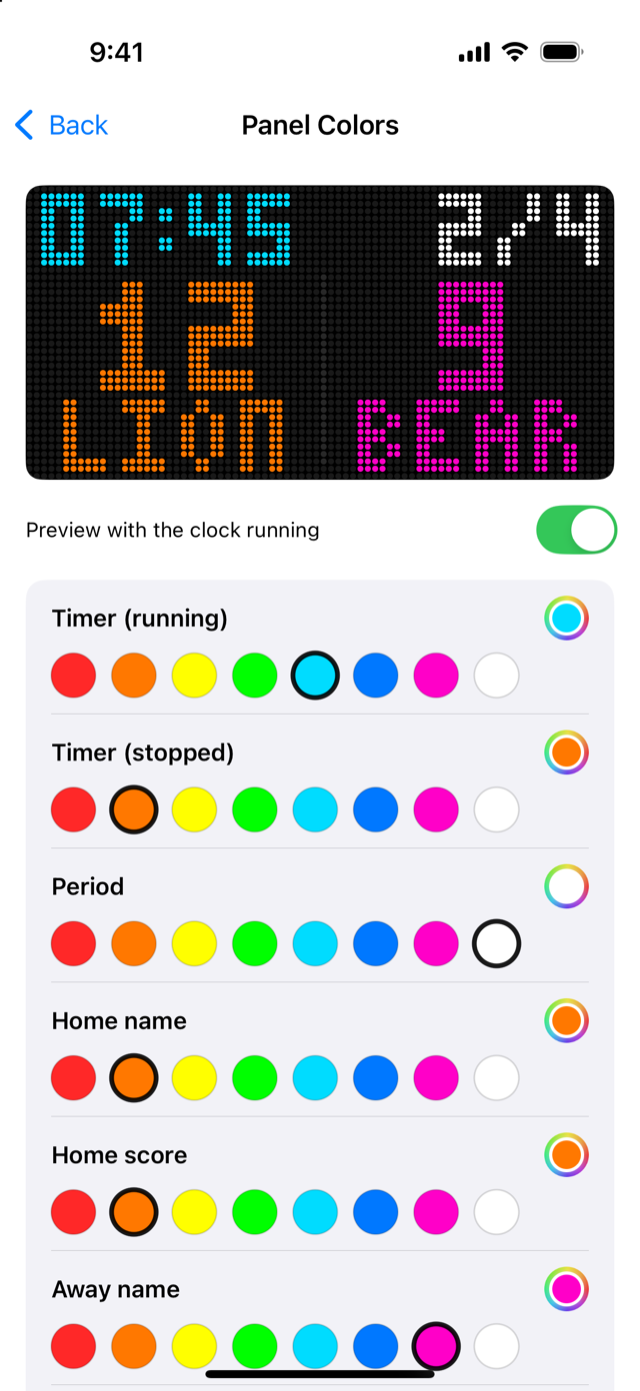
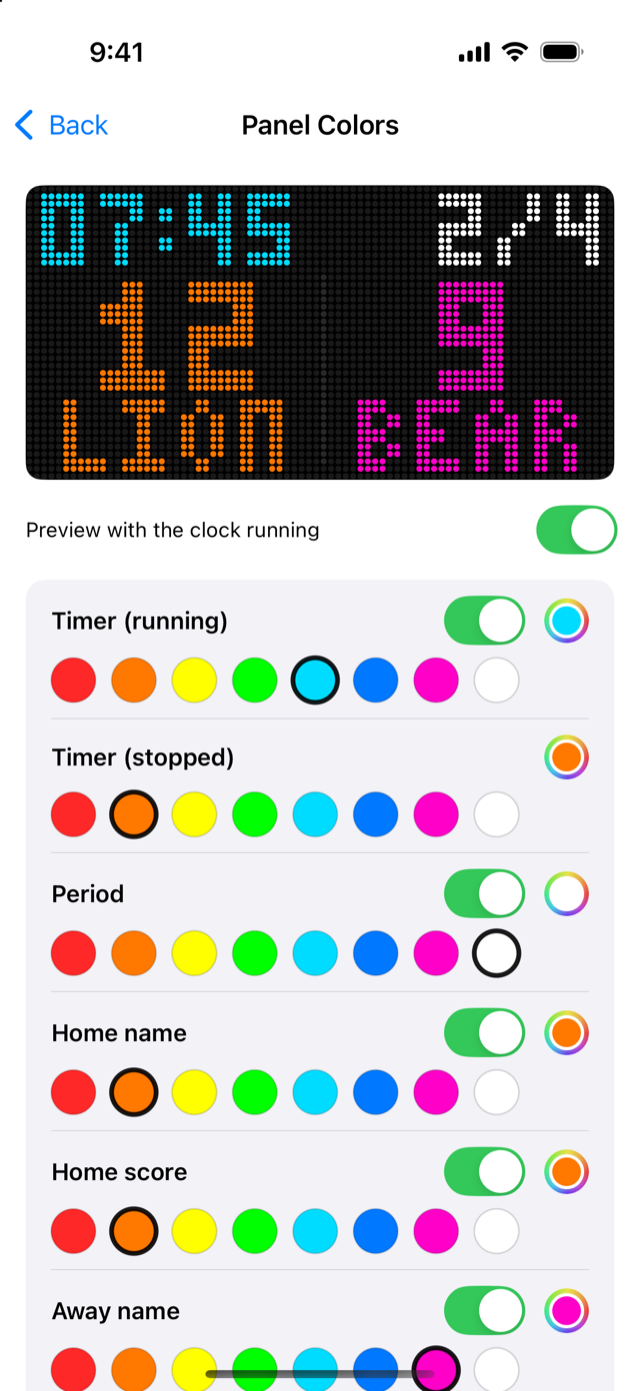
Hide or show each panel element, with a switch on the Panel Colors page
- A switch on each row hides that element on the panel: timer (one switch for
  running and stopped), period, team names and scores. An alert switched off does
  not play. The color preview and the simulated board hide elements immediately.
- Visibility is saved on the phone and sent to the board (CMD_SET_VISIBILITY, a
  2-byte bitmask) on change and on every connection. Protocol version is now 4.
- Tutorial, docs, README and Spanish translations updated; the colors screenshot
  now shows the switches.

diff --git a/BLEScoreboard/PanelColors.swift b/BLEScoreboard/PanelColors.swift
@@ -41,6 +41,10 @@ enum PanelElement: String, CaseIterable, Identifiable {
         }
     }
     
+    /// The timer has one switch for both of its colors, kept on the running row.
+    var visibilityKey: PanelElement { self == .timerStopped ? .timerRunning : self }
+    var hasVisibilitySwitch: Bool { self != .timerStopped }
+    
     /// The colors the panel used before colors were configurable.
     var defaultColor: RGB {
         switch self {
@@ -75,6 +79,32 @@ enum PanelColorStore {
     static func save(_ colors: [PanelElement: RGB]) {
         let raw = Dictionary(uniqueKeysWithValues: colors.map { ($0.key.rawValue, $0.value) })
         if let data = try? JSONEncoder().encode(raw) { UserDefaults.standard.set(data, forKey: key) }
+    }
+}
+
+/// Which elements are shown on the panel. Everything is shown by default.
+enum PanelVisibilityStore {
+    private static let key = "panelVisibility"
+    
+    static func load() -> [PanelElement: Bool] {
+        var visible = Dictionary(uniqueKeysWithValues: PanelElement.allCases.map { ($0, true) })
+        if let data = UserDefaults.standard.data(forKey: key),
+           let saved = try? JSONDecoder().decode([String: Bool].self, from: data) {
+            for element in PanelElement.allCases { if let v = saved[element.rawValue] { visible[element] = v } }
+        }
+        return visible
+    }
+    
+    static func save(_ visible: [PanelElement: Bool]) {
+        let raw = Dictionary(uniqueKeysWithValues: visible.map { ($0.key.rawValue, $0.value) })
+        if let data = try? JSONEncoder().encode(raw) { UserDefaults.standard.set(data, forKey: key) }
+    }
+    
+    /// Wire format: bit i set means PanelElement i is shown (the timer's stopped bit follows its running bit).
+    static func mask(_ visible: [PanelElement: Bool]) -> UInt16 {
+        var mask: UInt16 = 0
+        for (index, element) in PanelElement.allCases.enumerated() where visible[element.visibilityKey] ?? true { mask |= 1 << UInt16(index) }
+        return mask
     }
 }
 
@@ -156,17 +186,18 @@ struct PanelFrame {
     }
     
     /// The scoreboard with sample data: timer top left, period top right, scores in the middle, names at the bottom.
-    static func sample(colors: [PanelElement: RGB], clockRunning: Bool) -> PanelFrame {
+    static func sample(colors: [PanelElement: RGB], clockRunning: Bool, visible: [PanelElement: Bool] = [:]) -> PanelFrame {
         func c(_ e: PanelElement) -> RGB { colors[e] ?? e.defaultColor }
+        func shown(_ e: PanelElement) -> Bool { visible[e.visibilityKey] ?? true }
         var f = PanelFrame()
-        f.text("07:45", x: 2, y: 1, scale: 2, color: c(clockRunning ? .timerRunning : .timerStopped))
+        if shown(.timerRunning) { f.text("07:45", x: 2, y: 1, scale: 2, color: c(clockRunning ? .timerRunning : .timerStopped)) }
         let period = "2/4"
-        f.text(period, x: 78 - LEDFont.units(period) * 2, y: 1, scale: 2, color: c(.period))
+        if shown(.period) { f.text(period, x: 78 - LEDFont.units(period) * 2, y: 1, scale: 2, color: c(.period)) }
         for j in 0..<26 { f.set(40, 12 + j, RGB(40, 40, 40)) }
-        for (text, center, element) in [("12", 20, PanelElement.homeScore), ("9", 60, .awayScore)] {
+        for (text, center, element) in [("12", 20, PanelElement.homeScore), ("9", 60, .awayScore)] where shown(element) {
             f.text(text, x: center - LEDFont.units(text) * 3 / 2, y: 13, scale: 3, color: c(element))
         }
-        for (text, slotX, element) in [("LION", 2, PanelElement.homeName), ("BEAR", 42, .awayName)] {
+        for (text, slotX, element) in [("LION", 2, PanelElement.homeName), ("BEAR", 42, .awayName)] where shown(element) {
             f.text(text, x: slotX + (36 - LEDFont.units(text) * 2) / 2, y: 29, scale: 2, color: c(element), clipX: slotX..<(slotX + 36))
         }
         return f
@@ -197,18 +228,20 @@ extension PanelFrame {
     
     /// The scoreboard with the real match state: the same layout the firmware draws.
     static func live(homeName: String, awayName: String, homeScore: Int, awayScore: Int, period: Int, totalPeriods: Int,
-                     minutes: Int, seconds: Int, running: Bool, colors: [PanelElement: RGB], time: TimeInterval) -> PanelFrame {
+                     minutes: Int, seconds: Int, running: Bool, colors: [PanelElement: RGB], visible: [PanelElement: Bool] = [:],
+                     time: TimeInterval) -> PanelFrame {
         func c(_ e: PanelElement) -> RGB { colors[e] ?? e.defaultColor }
+        func shown(_ e: PanelElement) -> Bool { visible[e.visibilityKey] ?? true }
         var f = PanelFrame()
-        f.text(String(format: "%02d:%02d", minutes, seconds), x: 2, y: 1, scale: 2, color: c(running ? .timerRunning : .timerStopped))
+        if shown(.timerRunning) { f.text(String(format: "%02d:%02d", minutes, seconds), x: 2, y: 1, scale: 2, color: c(running ? .timerRunning : .timerStopped)) }
         let periodText = "\(period)/\(totalPeriods)"
-        f.text(periodText, x: 78 - LEDFont.units(periodText) * 2, y: 1, scale: 2, color: c(.period))
+        if shown(.period) { f.text(periodText, x: 78 - LEDFont.units(periodText) * 2, y: 1, scale: 2, color: c(.period)) }
         for j in 0..<26 { f.set(40, 12 + j, RGB(40, 40, 40)) }
-        for (value, center, element) in [(homeScore, 20, PanelElement.homeScore), (awayScore, 60, .awayScore)] {
+        for (value, center, element) in [(homeScore, 20, PanelElement.homeScore), (awayScore, 60, .awayScore)] where shown(element) {
             let text = String(value)
             f.text(text, x: center - LEDFont.units(text) * 3 / 2, y: 13, scale: 3, color: c(element))
         }
-        for (name, slotX, element) in [(homeName, 2, PanelElement.homeName), (awayName, 42, .awayName)] {
+        for (name, slotX, element) in [(homeName, 2, PanelElement.homeName), (awayName, 42, .awayName)] where shown(element) {
             let units = LEDFont.units(name), width = units * 2, clip = slotX..<(slotX + 36)
             if width <= 36 {
                 f.text(name, x: slotX + (36 - width) / 2, y: 29, scale: 2, color: c(element), clipX: clip)
@@ -248,6 +281,7 @@ struct AlertPlayback {
 struct LEDPanelPreview: View {
     let colors: [PanelElement: RGB]
     let clockRunning: Bool
+    var visible: [PanelElement: Bool] = [:]
     var alert: AlertPlayback? = nil
     
     var body: some View {
@@ -256,7 +290,7 @@ struct LEDPanelPreview: View {
             let playing = alert.flatMap { a in
                 PanelFrame.alert(text: a.text, color: a.color, elapsed: a.frozenAt ?? timeline.date.timeIntervalSince(a.start))
             }
-            let frame = playing ?? PanelFrame.sample(colors: colors, clockRunning: clockRunning)
+            let frame = playing ?? PanelFrame.sample(colors: colors, clockRunning: clockRunning, visible: visible)
             frame.draw(in: context, size: size)
         }
         }
@@ -290,13 +324,24 @@ struct PanelColorsView: View {
         ble.sendPanelAlert(kind)
     }
     
+    private func visibleBinding(for element: PanelElement) -> Binding<Bool> {
+        Binding(get: { ble.panelVisibility[element.visibilityKey] ?? true }, set: { ble.setVisible($0, for: element) })
+    }
+    
     private func row(_ element: PanelElement) -> some View {
         let current = ble.panelColors[element] ?? element.defaultColor
+        let isShown = ble.panelVisibility[element.visibilityKey] ?? true
         return VStack(alignment: .leading, spacing: 8) {
             HStack {
                 Text(element.title).font(.subheadline).bold()
                 Spacer()
+                if element.hasVisibilitySwitch {
+                    Toggle("Show on panel", isOn: visibleBinding(for: element)).labelsHidden().padding(.trailing, 6)
+                }
                 ColorPicker("", selection: binding(for: element), supportsOpacity: false).labelsHidden()
+            }
+            if !isShown && element.hasVisibilitySwitch {
+                Text("Hidden on the panel").font(.caption2).foregroundColor(.secondary)
             }
             HStack(spacing: 10) {
                 ForEach(Array(Self.presets.enumerated()), id: \.offset) { _, preset in
@@ -307,6 +352,7 @@ struct PanelColorsView: View {
                     .buttonStyle(.plain)
                 }
             }
+            .opacity(isShown ? 1 : 0.35)
         }
         .padding(.vertical, 10)
     }
@@ -315,7 +361,7 @@ struct PanelColorsView: View {
         ScrollViewReader { proxy in
         ScrollView {
             VStack(spacing: 16) {
-                LEDPanelPreview(colors: ble.panelColors, clockRunning: previewRunning, alert: alert)
+                LEDPanelPreview(colors: ble.panelColors, clockRunning: previewRunning, visible: ble.panelVisibility, alert: alert)
                 Toggle("Preview with the clock running", isOn: $previewRunning).font(.footnote)
                 
                 if ble.boardLacksColorSupport {
@@ -337,10 +383,21 @@ struct PanelColorsView: View {
                 VStack(spacing: 8) {
                     HStack(spacing: 12) {
                         Button { play(.gameStart) } label: { Label("Play game start alert", systemImage: "play.circle").frame(maxWidth: .infinity) }
+                            .disabled(!(ble.panelVisibility[.alertGame] ?? true))
                         Button { play(.periodStart(2)) } label: { Label("Play period start alert", systemImage: "play.circle").frame(maxWidth: .infinity) }
+                            .disabled(!(ble.panelVisibility[.alertPeriod] ?? true))
                     }
                     .buttonStyle(.bordered).font(.footnote)
                     Text("Alerts also play on the board when it is linked.").font(.caption).foregroundColor(.secondary)
+                }
+                
+                Text("Switch an element off to hide it on the panel. The timer switch hides it whether it is running or stopped.")
+                    .font(.caption).foregroundColor(.secondary).multilineTextAlignment(.center)
+                
+                if ble.boardLacksHideSupport {
+                    Label("Update the board firmware to hide elements on the board. The preview already hides them.", systemImage: "exclamationmark.triangle.fill")
+                        .font(.footnote).foregroundColor(.orange)
+                        .frame(maxWidth: .infinity, alignment: .leading)
                 }
                 
                 Button("Reset colors") { ble.resetColors() }.buttonStyle(.bordered).id("resetColors")
@@ -383,7 +440,7 @@ struct LiveBoardPreview: View {
                     awayName: ble.panelText(ble.awayName.isEmpty ? String(localized: "AWAY") : ble.awayName),
                     homeScore: ble.homeScore, awayScore: ble.awayScore, period: ble.period, totalPeriods: ble.totalPeriods,
                     minutes: ble.timerMin, seconds: ble.timerSec, running: ble.isTimerRunning,
-                    colors: ble.panelColors, time: timeline.date.timeIntervalSinceReferenceDate)
+                    colors: ble.panelColors, visible: ble.panelVisibility, time: timeline.date.timeIntervalSinceReferenceDate)
                 frame.draw(in: context, size: size)
             }
         }

diff --git a/BLEScoreboard/AdvancedBLEManager.swift b/BLEScoreboard/AdvancedBLEManager.swift
@@ -35,16 +35,20 @@ class AdvancedBLEManager: NSObject, ObservableObject, CBCentralManagerDelegate, 
     @Published var panelAlertPlayback: AlertPlayback?
     /// The board's own clock, from its telemetry, used to show whether it is in sync with the app.
     @Published var boardClock: BoardClock?
+    @Published var panelVisibility: [PanelElement: Bool] = PanelVisibilityStore.load()
     private var colorSendWork: DispatchWorkItem?
+    private var visibilitySendWork: DispatchWorkItem?
     
     // Board telemetry (notification on the main characteristic)
     @Published var batteryPercent: Int? = nil
     @Published var boardProtocolVersion: Int? = nil
     @Published var telemetryReceived = false
     /// Telemetry layout version this app expects. Keep in sync with PROTOCOL_VERSION in scoreboard_BT_ESP32S3.ino.
-    static let expectedProtocolVersion = 3
+    static let expectedProtocolVersion = 4
     /// Colors need protocol 3. Unknown until the board's first telemetry arrives, so never warn before that.
     var boardLacksColorSupport: Bool { telemetryReceived && (boardProtocolVersion ?? 1) < 3 }
+    /// Hiding elements needs protocol 4.
+    var boardLacksHideSupport: Bool { telemetryReceived && (boardProtocolVersion ?? 1) < 4 }
     var boardFirmwareOutdated: Bool { telemetryReceived && (boardProtocolVersion ?? 1) < Self.expectedProtocolVersion }
     
     // Visual Banner Alert State publishers
@@ -65,6 +69,7 @@ class AdvancedBLEManager: NSObject, ObservableObject, CBCentralManagerDelegate, 
     private let cmdSetName: UInt8 = 0x01
     private let cmdApply: UInt8 = 0x02
     private let cmdColors: UInt8 = 0x03   // [0x03] + 9 x RGB565 big-endian, in PanelElement order
+    private let cmdVisibility: UInt8 = 0x05  // [0x05, mask low byte, mask high byte]; bit i = PanelElement i is shown
     private let cmdAlert: UInt8 = 0x04    // [0x04, type (1 game start, 2 period start)] + 1-16 ASCII characters
     static let deviceNameMaxLength = 20
     
@@ -180,6 +185,21 @@ class AdvancedBLEManager: NSObject, ObservableObject, CBCentralManagerDelegate, 
         sendColors()
     }
     
+    func setVisible(_ visible: Bool, for element: PanelElement) {
+        panelVisibility[element.visibilityKey] = visible
+        PanelVisibilityStore.save(panelVisibility)
+        visibilitySendWork?.cancel()
+        let work = DispatchWorkItem { [weak self] in self?.sendVisibility() }
+        visibilitySendWork = work
+        DispatchQueue.main.asyncAfter(deadline: .now() + 0.2, execute: work)
+    }
+    
+    func sendVisibility() {
+        guard let peripheral = connectedPeripheral, let config = configCharacteristic else { return }
+        let mask = PanelVisibilityStore.mask(panelVisibility)
+        peripheral.writeValue(Data([cmdVisibility, UInt8(mask & 0xFF), UInt8(mask >> 8)]), for: config, type: .withResponse)
+    }
+    
     /// A color picker drag produces many changes; send once it settles.
     private func scheduleColorSend() {
         colorSendWork?.cancel()
@@ -203,6 +223,7 @@ class AdvancedBLEManager: NSObject, ObservableObject, CBCentralManagerDelegate, 
     func sendPanelAlert(_ kind: PanelAlertKind) {
         var element = PanelElement.alertGame
         if case .periodStart = kind { element = .alertPeriod }
+        guard panelVisibility[element] ?? true else { return }   // this alert is switched off
         panelAlertPlayback = AlertPlayback(text: panelAlertText(kind), color: panelColors[element] ?? element.defaultColor, start: Date())
         guard let peripheral = connectedPeripheral, let config = configCharacteristic else { return }
         var type: UInt8 = 1
@@ -268,7 +289,7 @@ class AdvancedBLEManager: NSObject, ObservableObject, CBCentralManagerDelegate, 
                 if let config = self.configCharacteristic {
                     peripheral.writeValue(Data([self.cmdApply]), for: config, type: .withResponse)
                 }
-            case (self.cmdColors, _), (self.cmdAlert, _):
+            case (self.cmdColors, _), (self.cmdAlert, _), (self.cmdVisibility, _):
                 break   // colors need no feedback; boards without protocol 3 are reported by the version check
             case (self.cmdApply, 0):
                 self.renameStatus = String(localized: "Renamed. The board is restarting...")
@@ -327,7 +348,7 @@ class AdvancedBLEManager: NSObject, ObservableObject, CBCentralManagerDelegate, 
         for characteristic in characteristics where characteristic.uuid == configUUID {
             configCharacteristic = characteristic
             peripheral.setNotifyValue(true, for: characteristic)
-            DispatchQueue.main.async { self.renameStatus = ""; self.sendColors() }
+            DispatchQueue.main.async { self.renameStatus = ""; self.sendColors(); self.sendVisibility() }
         }
         for characteristic in characteristics where characteristic.uuid == charUUID {
             targetCharacteristic = characteristic

diff --git a/BLEScoreboard/TutorialViews.swift b/BLEScoreboard/TutorialViews.swift
@@ -64,7 +64,7 @@ struct TutorialView: View {
              text: "Choose the period, the number of periods and the panel brightness. Rename the period unit (Quarter, Half, Tiempo) and the board from the top card.",
              image: "tutorial-4-setup", icon: "slider.horizontal.3"),
         Page(title: "5. Choose panel colors",
-             text: "Tap Panel Colors in the top card. Pick the color of the timer (running and stopped), the period, each team's name and score, and the two start alerts. The preview shows the panel as you choose, and the board remembers your colors.",
+             text: "Tap Panel Colors in the top card. Pick the color of the timer (running and stopped), the period, each team's name and score, and the two start alerts. Use the switch on a row to hide that element on the panel; an alert you switch off does not play. The preview shows the panel as you choose, and the board remembers your choices.",
              image: "tutorial-5-colors", icon: "paintpalette"),
         Page(title: "6. Start alerts",
              text: "When a game or a period starts, the panel flashes its border and scrolls a message across it in the color you chose. Use the play buttons on the colors page to try the alerts in the preview and on your board.",

diff --git a/docs/TUTORIAL.es.md b/docs/TUTORIAL.es.md
@@ -32,7 +32,7 @@ Elige el periodo actual, el total de periodos y el brillo del panel. En la tarje
 
 ## 5. Elige los colores del panel
 
-Toca **Colores del panel** en la tarjeta superior. Elige el color del reloj (en marcha y detenido), el periodo, el nombre y los puntos de cada equipo, y las dos alertas de inicio, con las muestras o con cualquier color del selector. La vista previa de arriba muestra el panel mientras eliges. El marcador guarda los colores y la app los envía de nuevo cada vez que te conectas. **Restablecer colores** vuelve a los predeterminados.
+Toca **Colores del panel** en la tarjeta superior. Elige el color del reloj (en marcha y detenido), el periodo, el nombre y los puntos de cada equipo, y las dos alertas de inicio, con las muestras o con cualquier color del selector. La vista previa de arriba muestra el panel mientras eliges. El marcador guarda los colores y la app los envía de nuevo cada vez que te conectas. Usa el interruptor de una fila para **ocultar** ese elemento en el panel (el interruptor del reloj lo oculta tanto en marcha como detenido); una alerta apagada no se reproduce. La vista previa y el marcador simulado lo ocultan al instante. **Restablecer colores** vuelve a los colores predeterminados y deja los interruptores como están.
 
 <img src="images/5-colors-es.png" width="280" alt="Página de colores del panel con vista previa en vivo">
 
@@ -65,5 +65,5 @@ Cuando hay un marcador real vinculado, el panel simulado es la vista previa en v
 | El marcador no aparece | Revisa que esté encendido y su LED parpadee en azul, que el Bluetooth esté activado, y desliza la lista hacia abajo para buscar de nuevo. |
 | "El firmware del marcador está desactualizado" | Carga el firmware más reciente del repositorio `scoreboard_BT_ESP32S3` (por USB, o por Wi-Fi con la dirección IP). |
 | El LED parpadea en cian | Se perdió la conexión. El marcador espera 30 segundos al mismo teléfono y luego se reinicia y vuelve a azul. |
-| Los colores o las alertas no hacen nada en el panel | El marcador necesita el firmware más reciente (versión de protocolo 3). La página de colores muestra un aviso cuando es anterior. |
+| Los colores, las alertas o los elementos ocultos no hacen nada en el panel | El marcador necesita el firmware más reciente (versión de protocolo 4). La página de colores muestra un aviso cuando es anterior. |
 | Cambiar el nombre no hace nada | El marcador necesita el firmware actual; la línea de estado bajo el campo indica el motivo. |

diff --git a/README.md b/README.md
@@ -7,7 +7,7 @@ A native, low-latency iOS controller and watchOS extension built with **SwiftUI*
 - **Find Scoreboards Screen:** Scans with an animated radar and lists nearby active scoreboards. Seamlessly link to your designated display to prevent interference on multi-court venues.
 - **English & Spanish:** The interface, alerts and Bluetooth permission prompt are localized through string catalogs (`Localizable.xcstrings`, `InfoPlist.xcstrings`). You can rename the period unit (e.g., "Quarter", "Tiempo", "Half") and ordinals follow the phone's region via `NumberFormatter`. The LED panel font is ASCII-only, so accents are stripped on the panel (`Águilas` shows as `AGUILAS`) and the bottom line is compact (`Q2 07:45`). To add a language, add it to the string catalogs and the project's Localizations.
 - **Board Renaming:** Give each scoreboard its own name from the connected screen (1-20 plain characters). The board saves it and restarts, and the app reconnects on its own.
-- **Panel Colors:** The **Panel Colors** page (top card) sets the color of the timer (running and stopped), the period, each team's name and score, and the two start alerts, with a live LED preview. The board saves the colors and the app resends them on every connection.
+- **Panel Colors:** The **Panel Colors** page (top card) sets the color of the timer (running and stopped), the period, each team's name and score, and the two start alerts, with a live LED preview. A switch on each row hides that element on the panel (an alert switched off does not play). The board saves the colors and what is hidden, and the app resends them on every connection.
 - **Start Alerts:** When a game (period 1) or a later period starts from the full period length, the panel flashes its border and scrolls `GAME START` or `PERIOD n` across the screen in the alert's color. Play buttons on the colors page try them in the preview and on the board.
 - **Simulated Board:** A simulated panel at the bottom of the match screen shows the real match state: scores, clock, period, scrolling names, your colors and the start alerts, with its own score, period and start/pause buttons. **Try the simulated board** on the scanner screen runs it without a board; with a real board linked it mirrors the board and shows whether the two clocks are in sync. The Apple Watch controls it too.
 - **Unified Master Clock Engine:** A centralized Swift background `Timer` manages the match clock countdown, eliminating data-stream collisions.

diff --git a/docs/TUTORIAL.md b/docs/TUTORIAL.md
@@ -32,7 +32,7 @@ Choose the current period, the total number of periods and the panel brightness.
 
 ## 5. Choose panel colors
 
-Tap **Panel Colors** in the top card. Pick the color of the timer (running and stopped), the period, each team's name and score, and the two start alerts, using the swatches or any color from the color picker. The preview at the top shows the panel as you choose. The board saves the colors, and the app sends them again every time you connect. **Reset colors** goes back to the defaults.
+Tap **Panel Colors** in the top card. Pick the color of the timer (running and stopped), the period, each team's name and score, and the two start alerts, using the swatches or any color from the color picker. The preview at the top shows the panel as you choose. The board saves the colors, and the app sends them again every time you connect. Use the switch on a row to **hide** that element on the panel (the timer switch hides the timer whether it is running or stopped); an alert you switch off does not play. The preview and the simulated board hide it right away. **Reset colors** goes back to the default colors and leaves the switches as they are.
 
 <img src="images/5-colors-en.png" width="280" alt="Panel Colors page with a live panel preview">
 
@@ -65,5 +65,5 @@ When a real board is linked, the simulated panel is the live preview of that boa
 | The board does not appear | Check that it is powered and its LED blinks blue, that Bluetooth is on, and pull down on the list to rescan. |
 | "Board firmware is outdated" | Flash the latest firmware from the `scoreboard_BT_ESP32S3` repository (USB, or Wi-Fi by IP address). |
 | The LED blinks cyan | The link dropped. The board waits 30 seconds for the same phone, then resets and goes back to blue. |
-| Colors or alerts do nothing on the panel | The board needs the latest firmware (protocol version 3). The colors page shows a warning when it is older. |
+| Colors, alerts or hidden elements do nothing on the panel | The board needs the latest firmware (protocol version 4). The colors page shows a warning when it is older. |
 | Rename does nothing | The board needs current firmware; the status line under the field shows why. |
